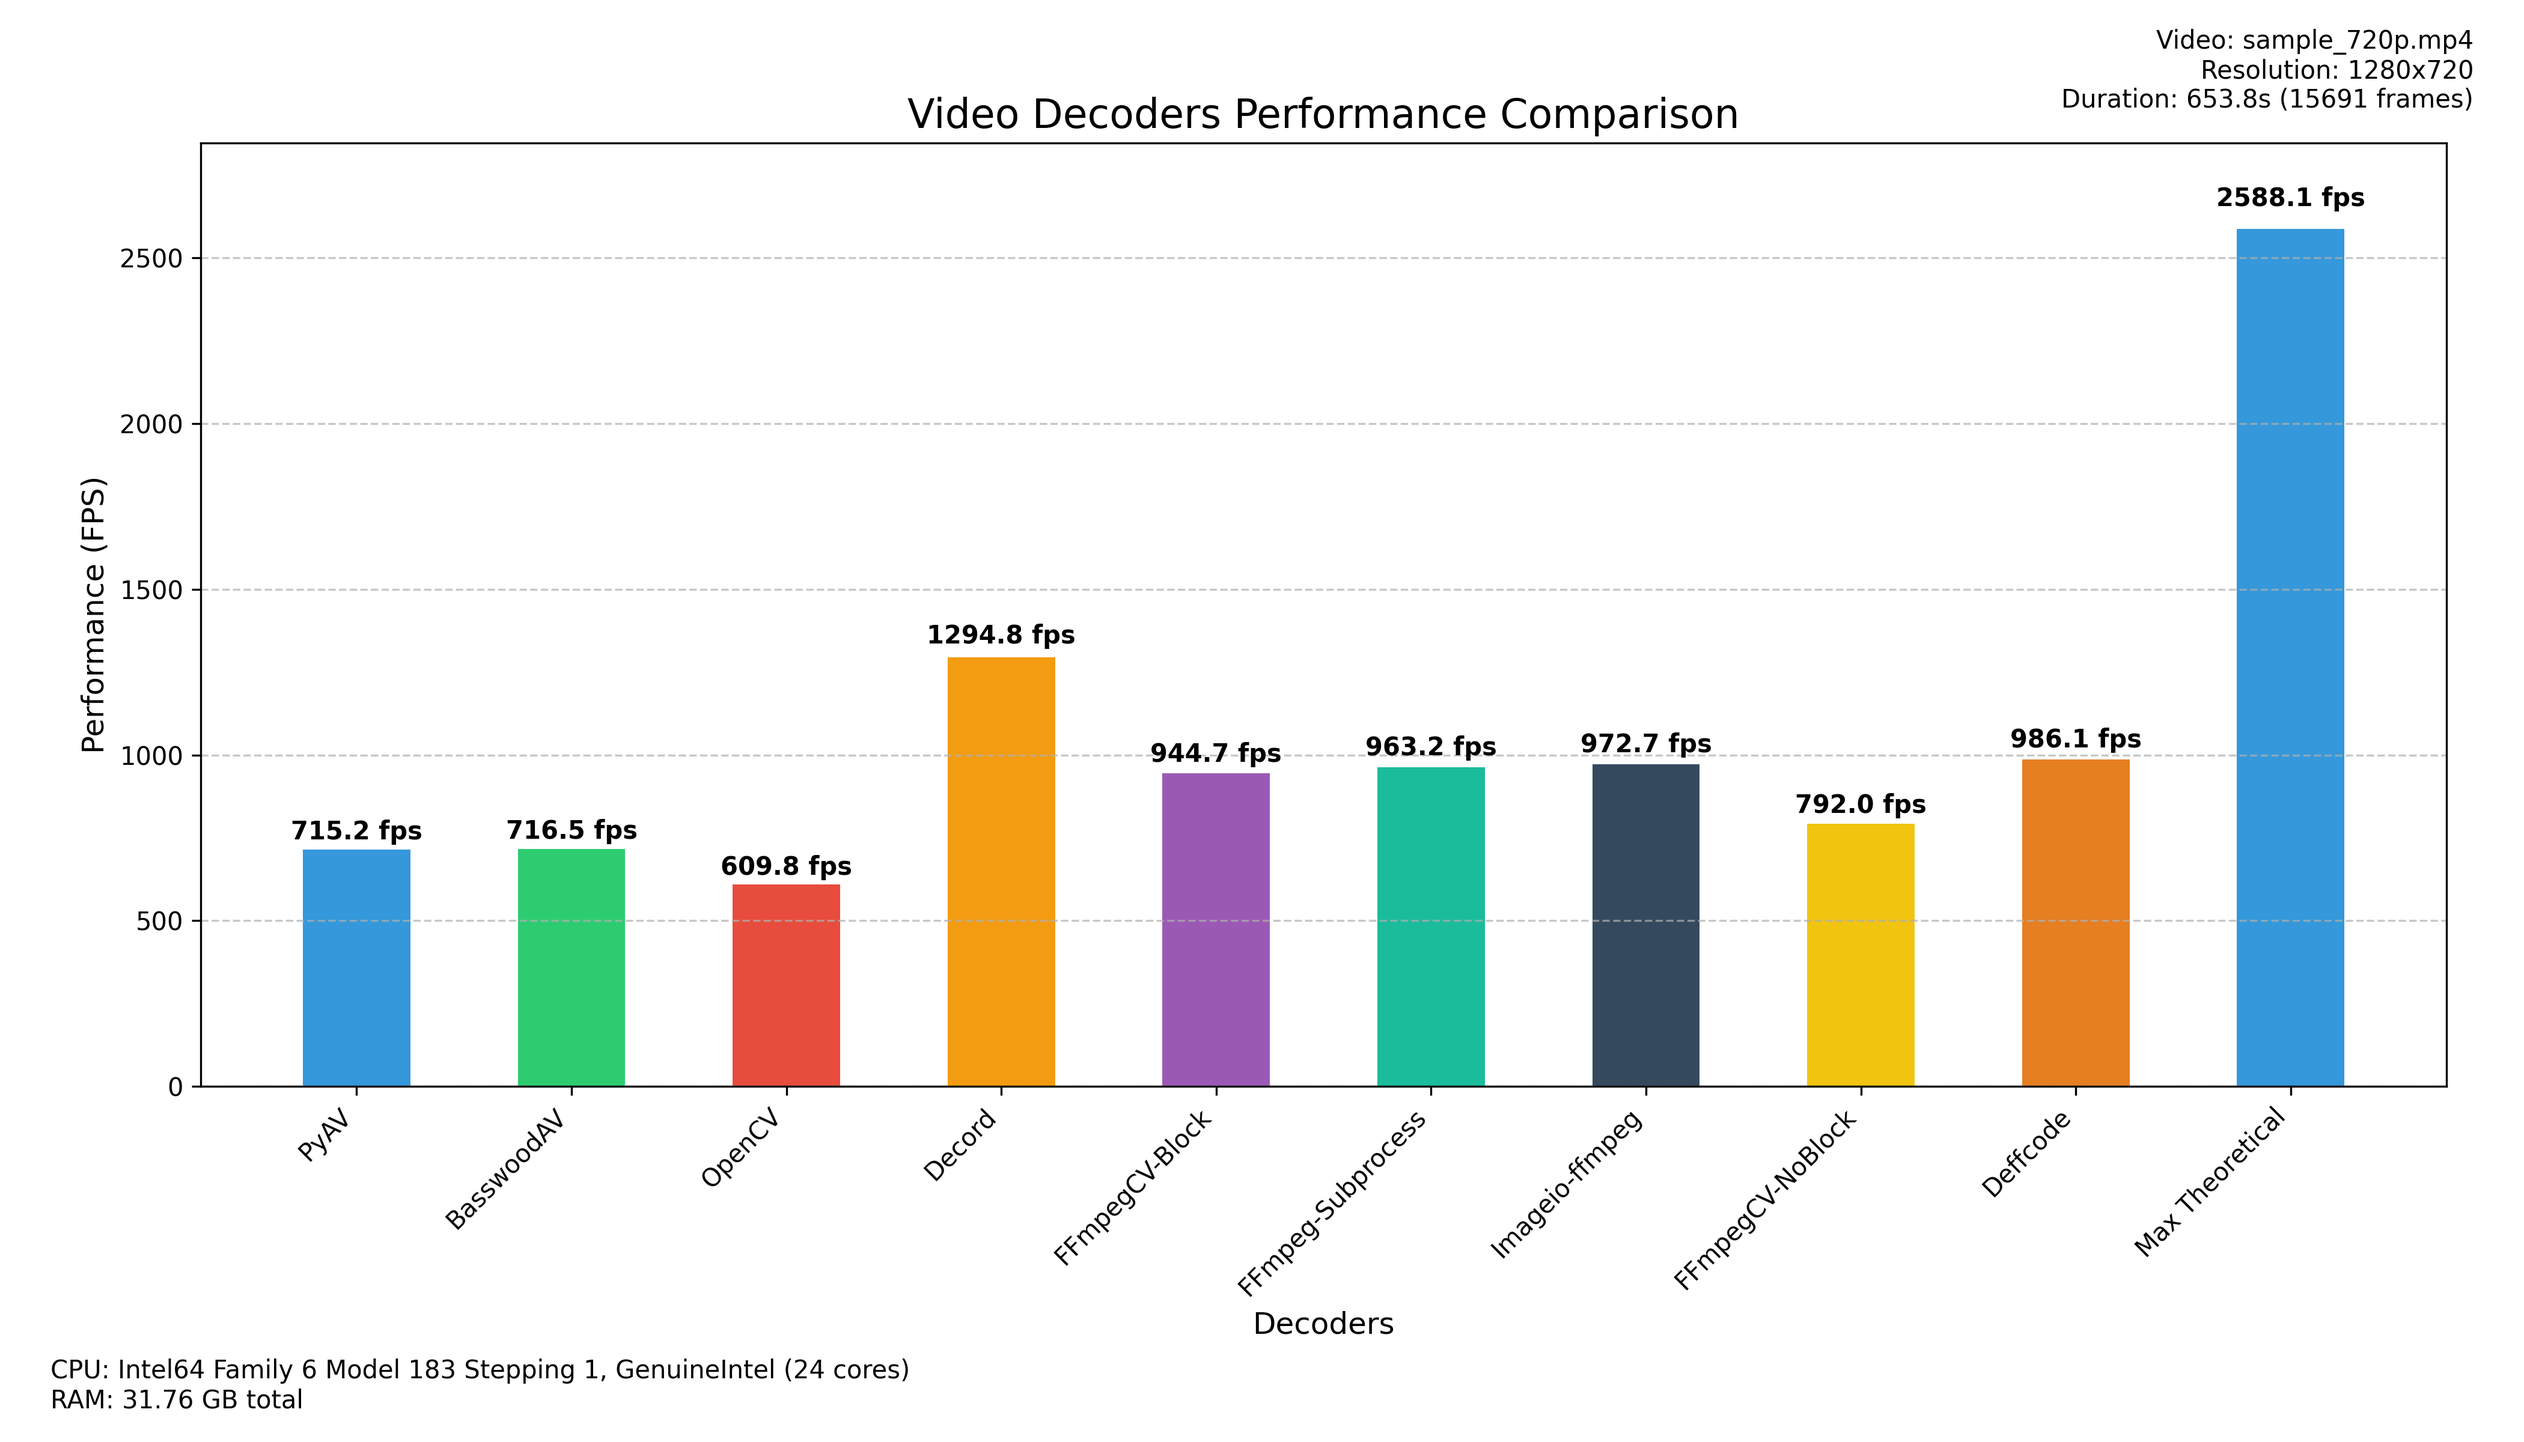
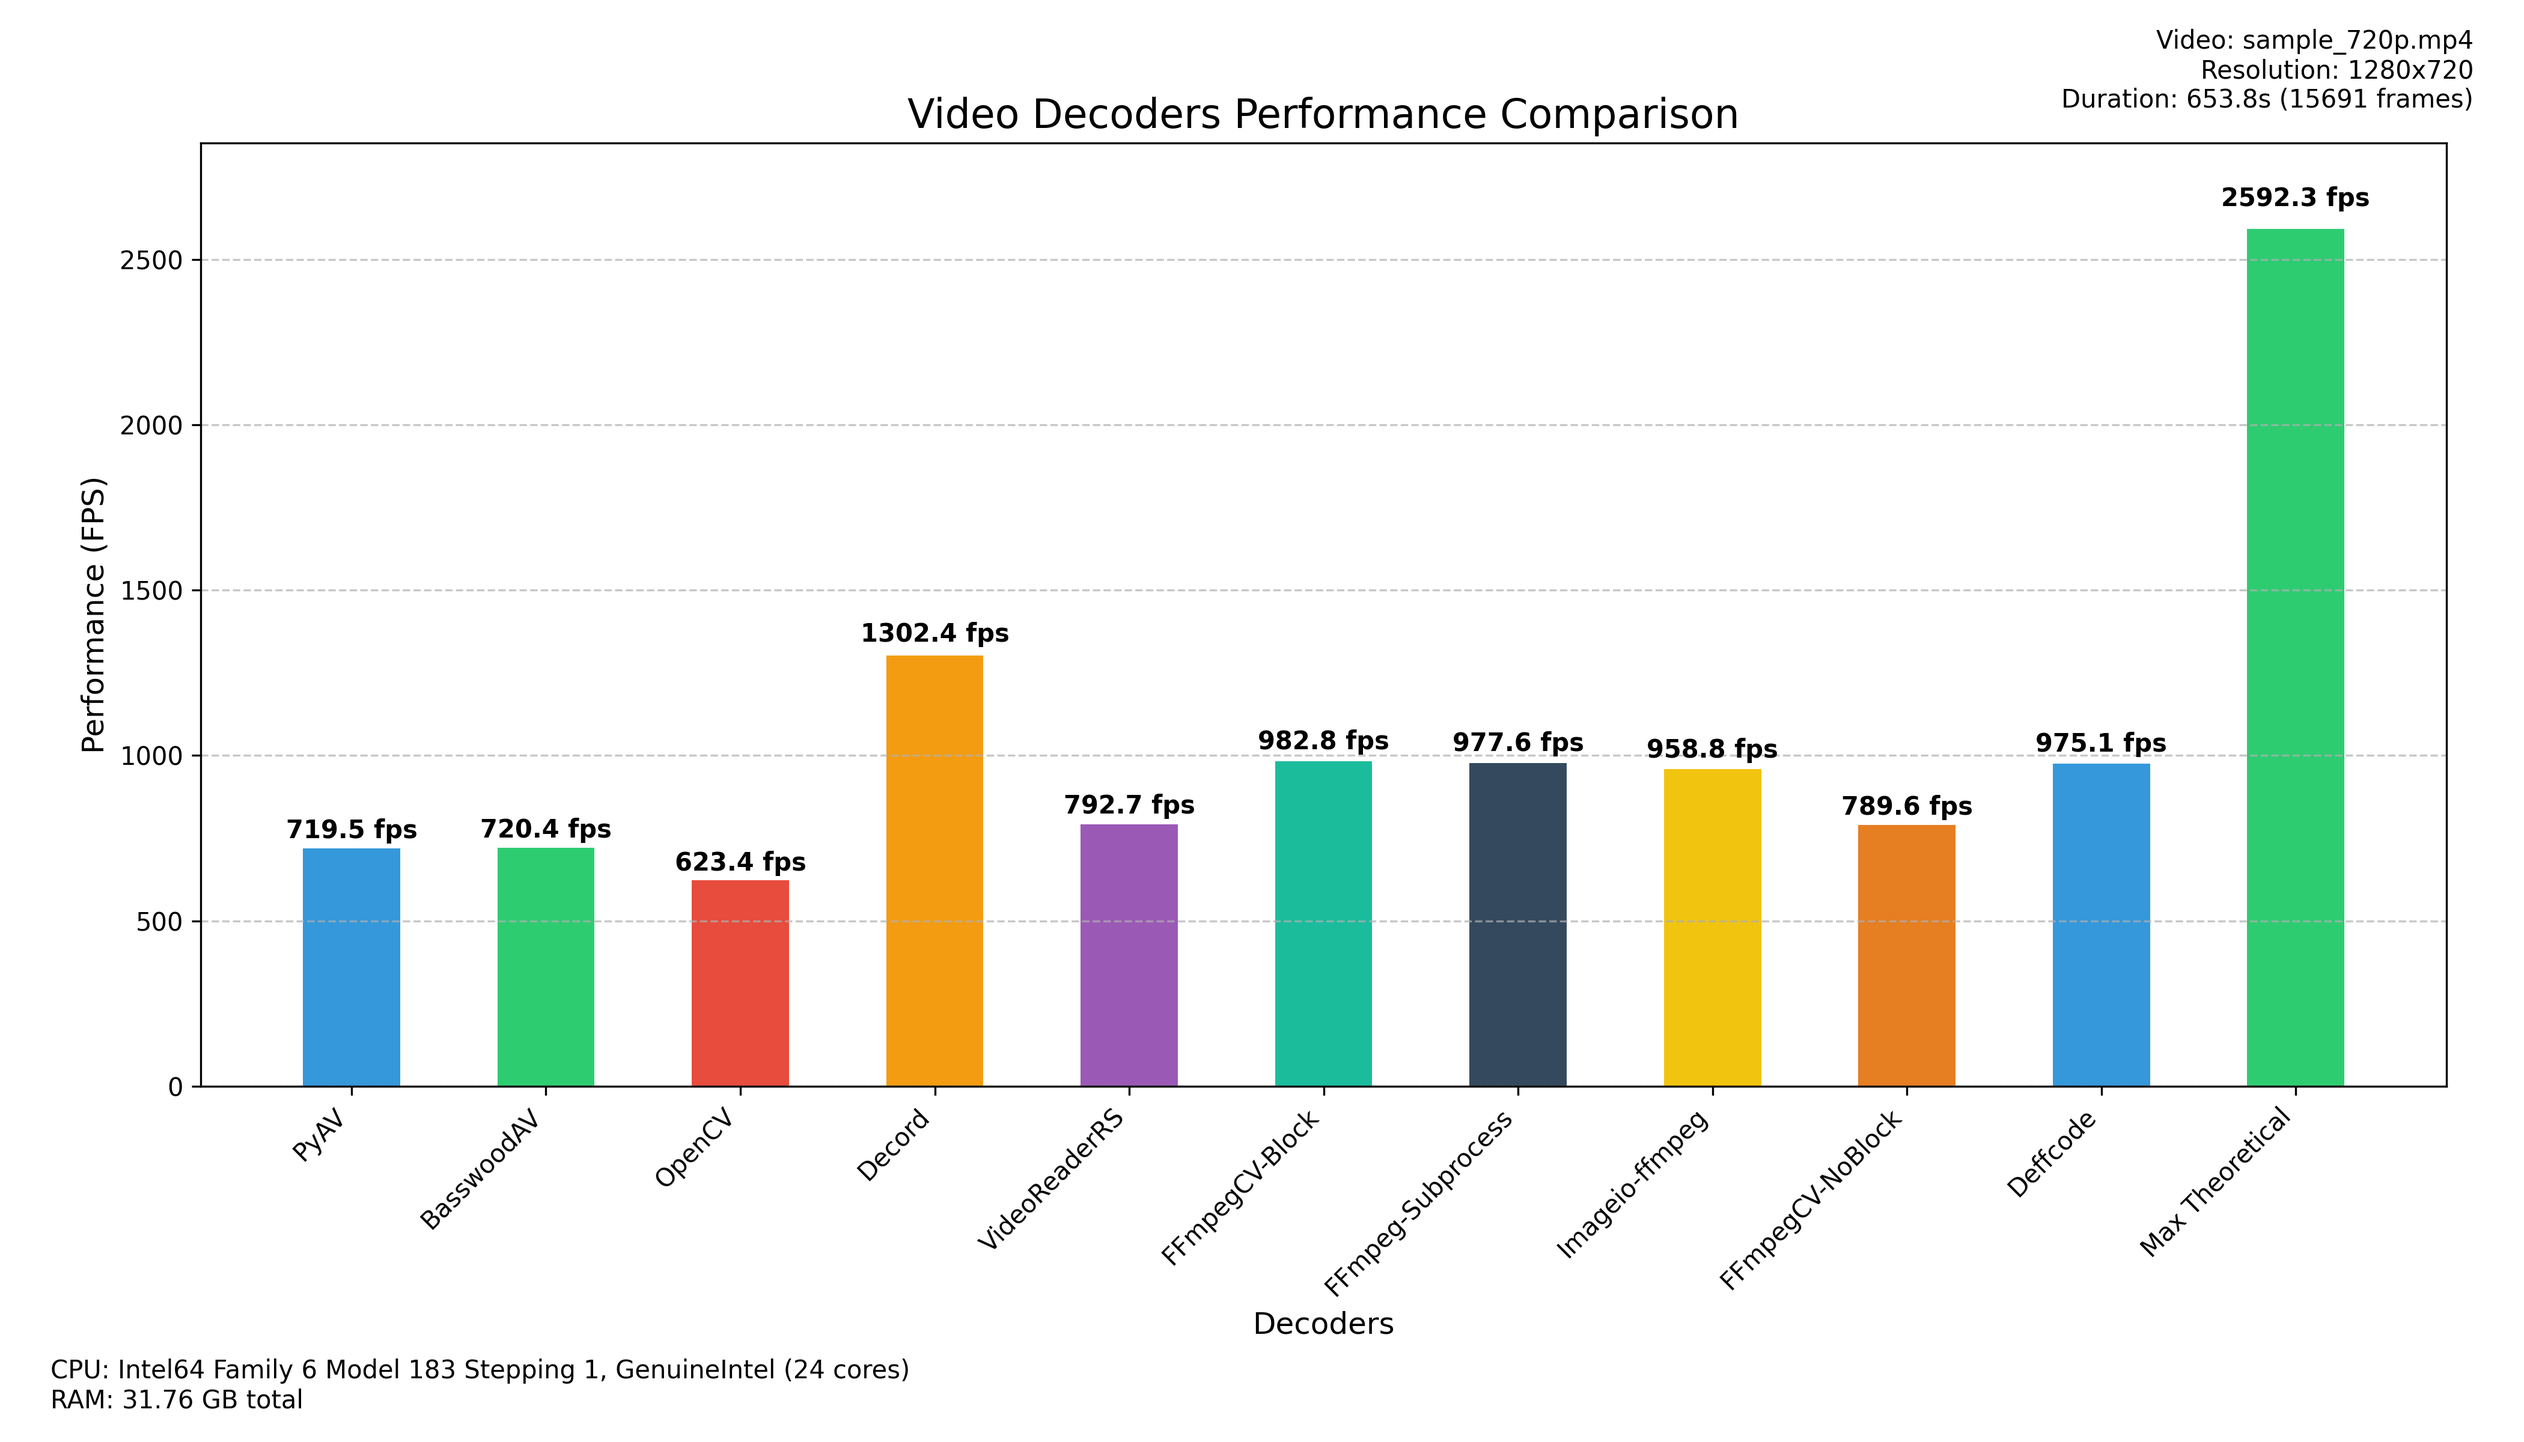
rename some stuff and try except torchcodec import

diff --git a/src/backends/videoreaderrs.py b/src/backends/videoreaderrs.py
@@ -9,9 +9,9 @@ from typing import Dict, Any
 
 
 def decodeWithVideoReaderRS(videoPath: str) -> Dict[str, Any]:
-    """Decode video using PyVideoReader and return metrics."""
+    """Decode video using VideoReaderRS and return metrics."""
     try:
-        print("Decoding with PyVideoReader...")
+        print("Decoding with VideoReaderRS...")
         startTime = time.time()
 
         reader = PyVideoReader(videoPath)
@@ -41,7 +41,7 @@ def decodeWithVideoReaderRS(videoPath: str) -> Dict[str, Any]:
         elapsedTime = endTime - startTime
 
         print(
-            f"PyVideoReader: Processed {frameCount} frames in {elapsedTime:.2f} seconds"
+            f"VideoReaderRS: Processed {frameCount} frames in {elapsedTime:.2f} seconds"
         )
 
         return {
@@ -50,7 +50,7 @@ def decodeWithVideoReaderRS(videoPath: str) -> Dict[str, Any]:
             "fps": frameCount / elapsedTime if elapsedTime > 0 else 0,
         }
     except Exception as e:
-        print(f"Error in PyVideoReader decoder: {str(e)}")
+        print(f"Error in VideoReaderRS decoder: {str(e)}")
         return {
             "error": str(e),
             "frameCount": 0,

diff --git a/src/backends/torchcodec.py b/src/backends/torchcodec.py
@@ -1,7 +1,11 @@
 import time
 import torch
-from torchcodec.decoders import VideoDecoder
 from typing import Dict, Any
+
+try:
+    from torchcodec.decoders import VideoDecoder
+except ImportError:
+    print("torchcodec error: Not supported on Windows yet.")
 
 
 def decodeWithTorchCodec(videoPath: str) -> Dict[str, Any]:
